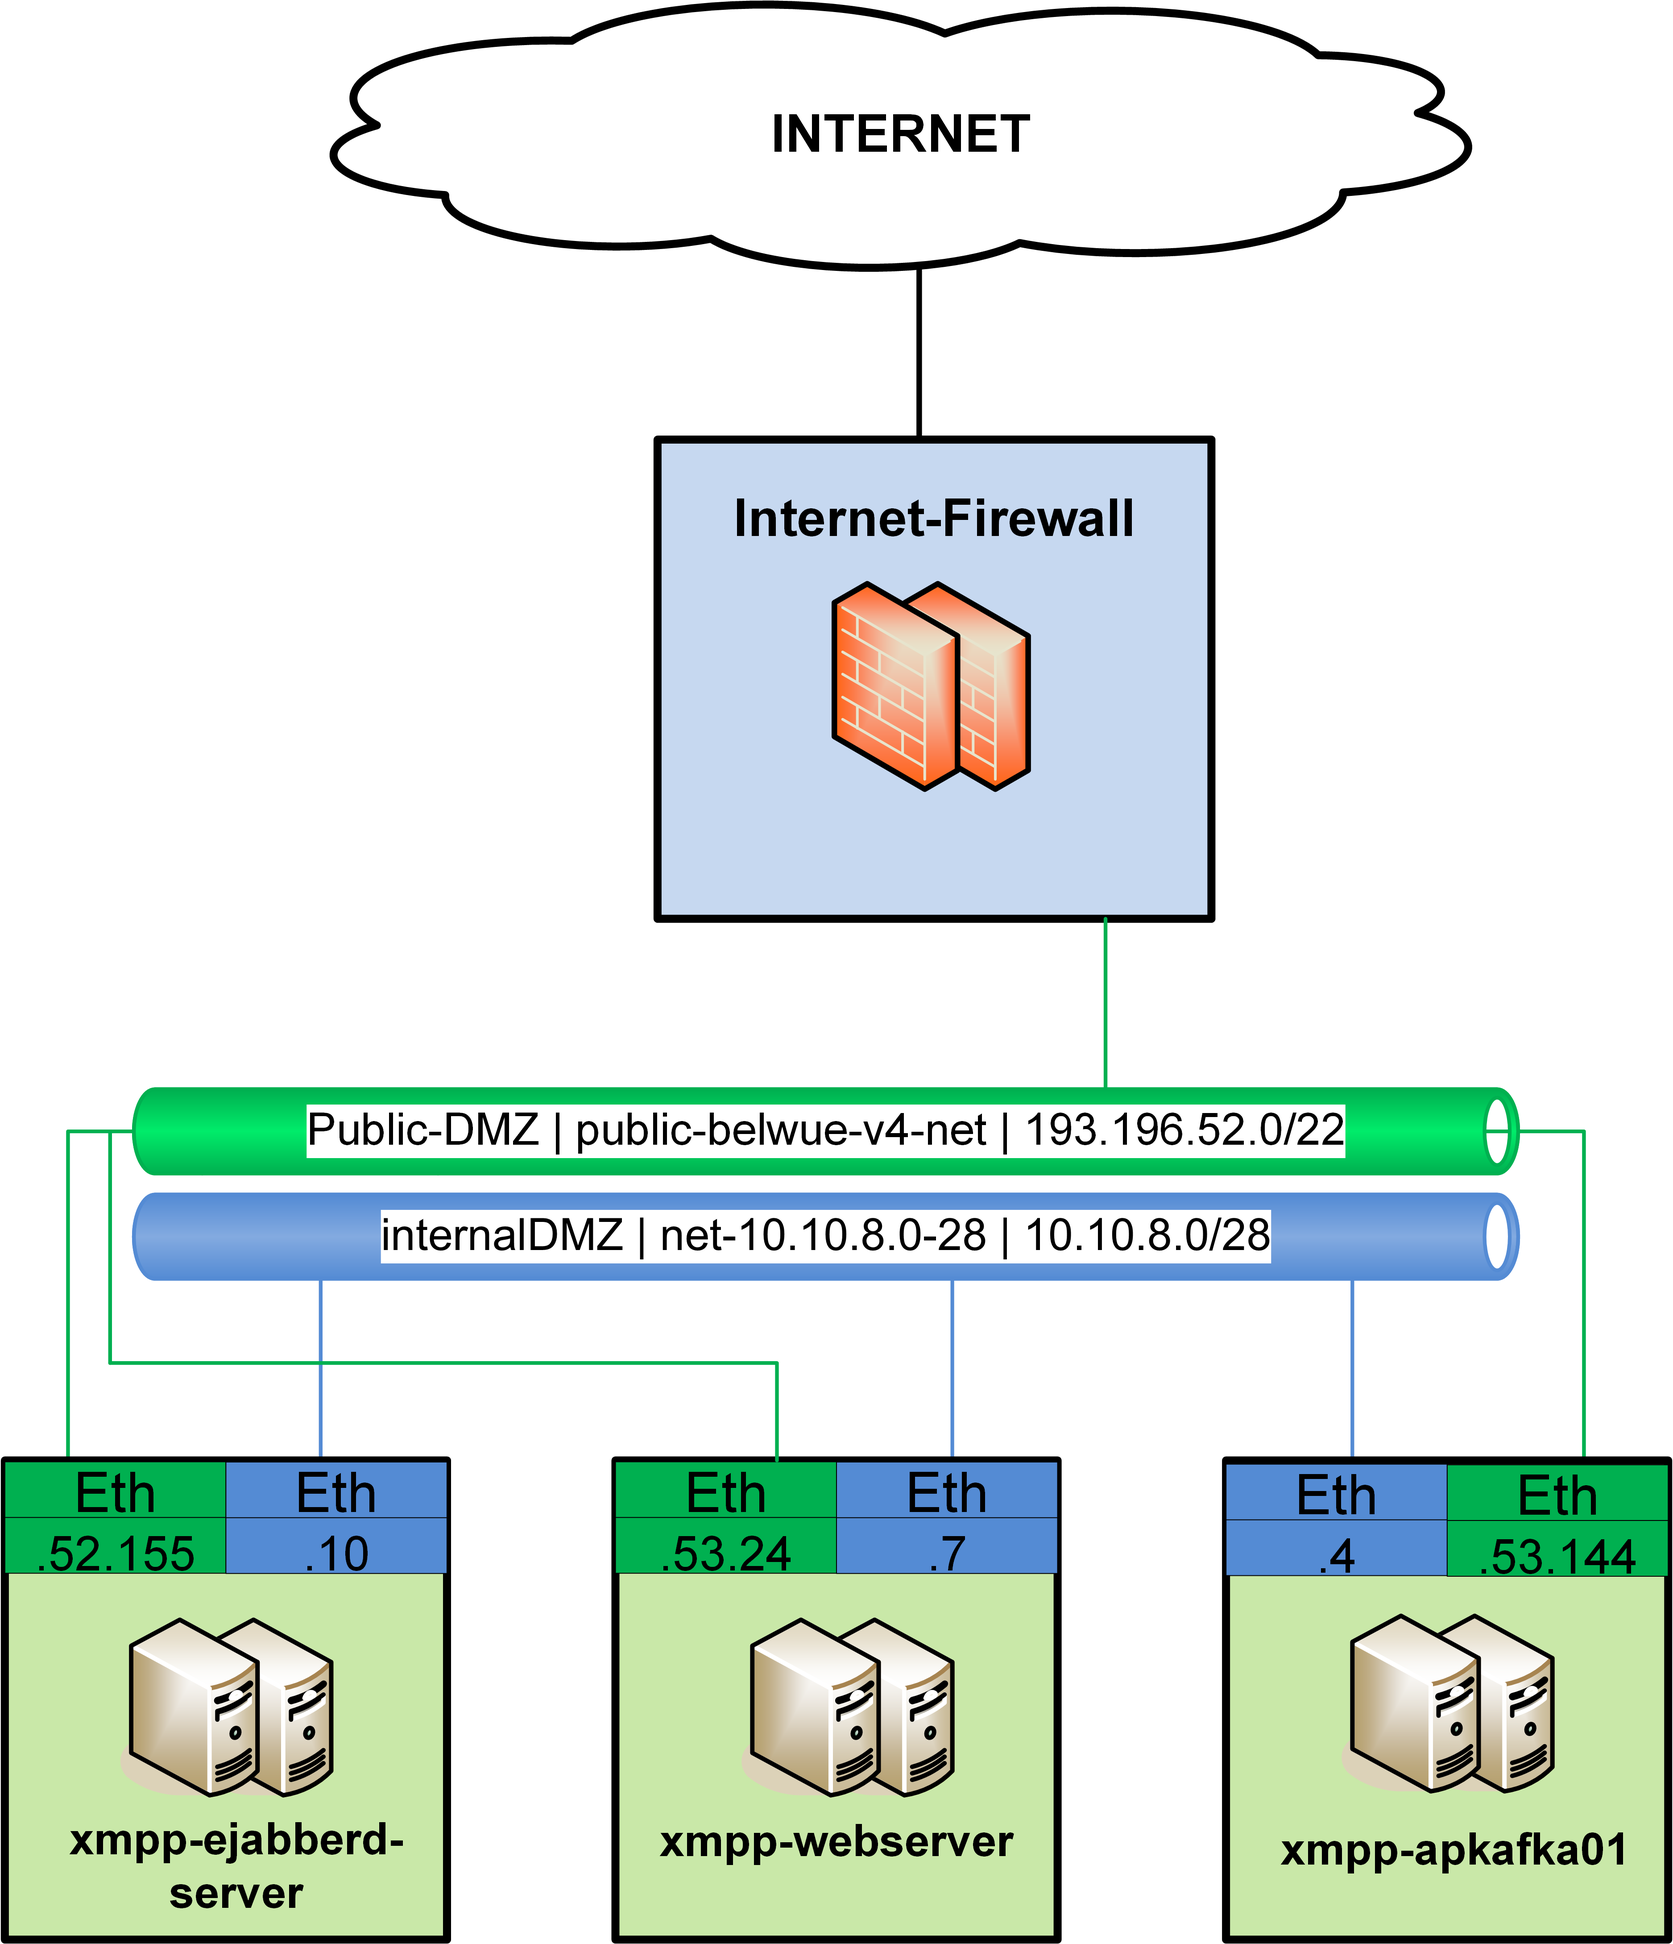
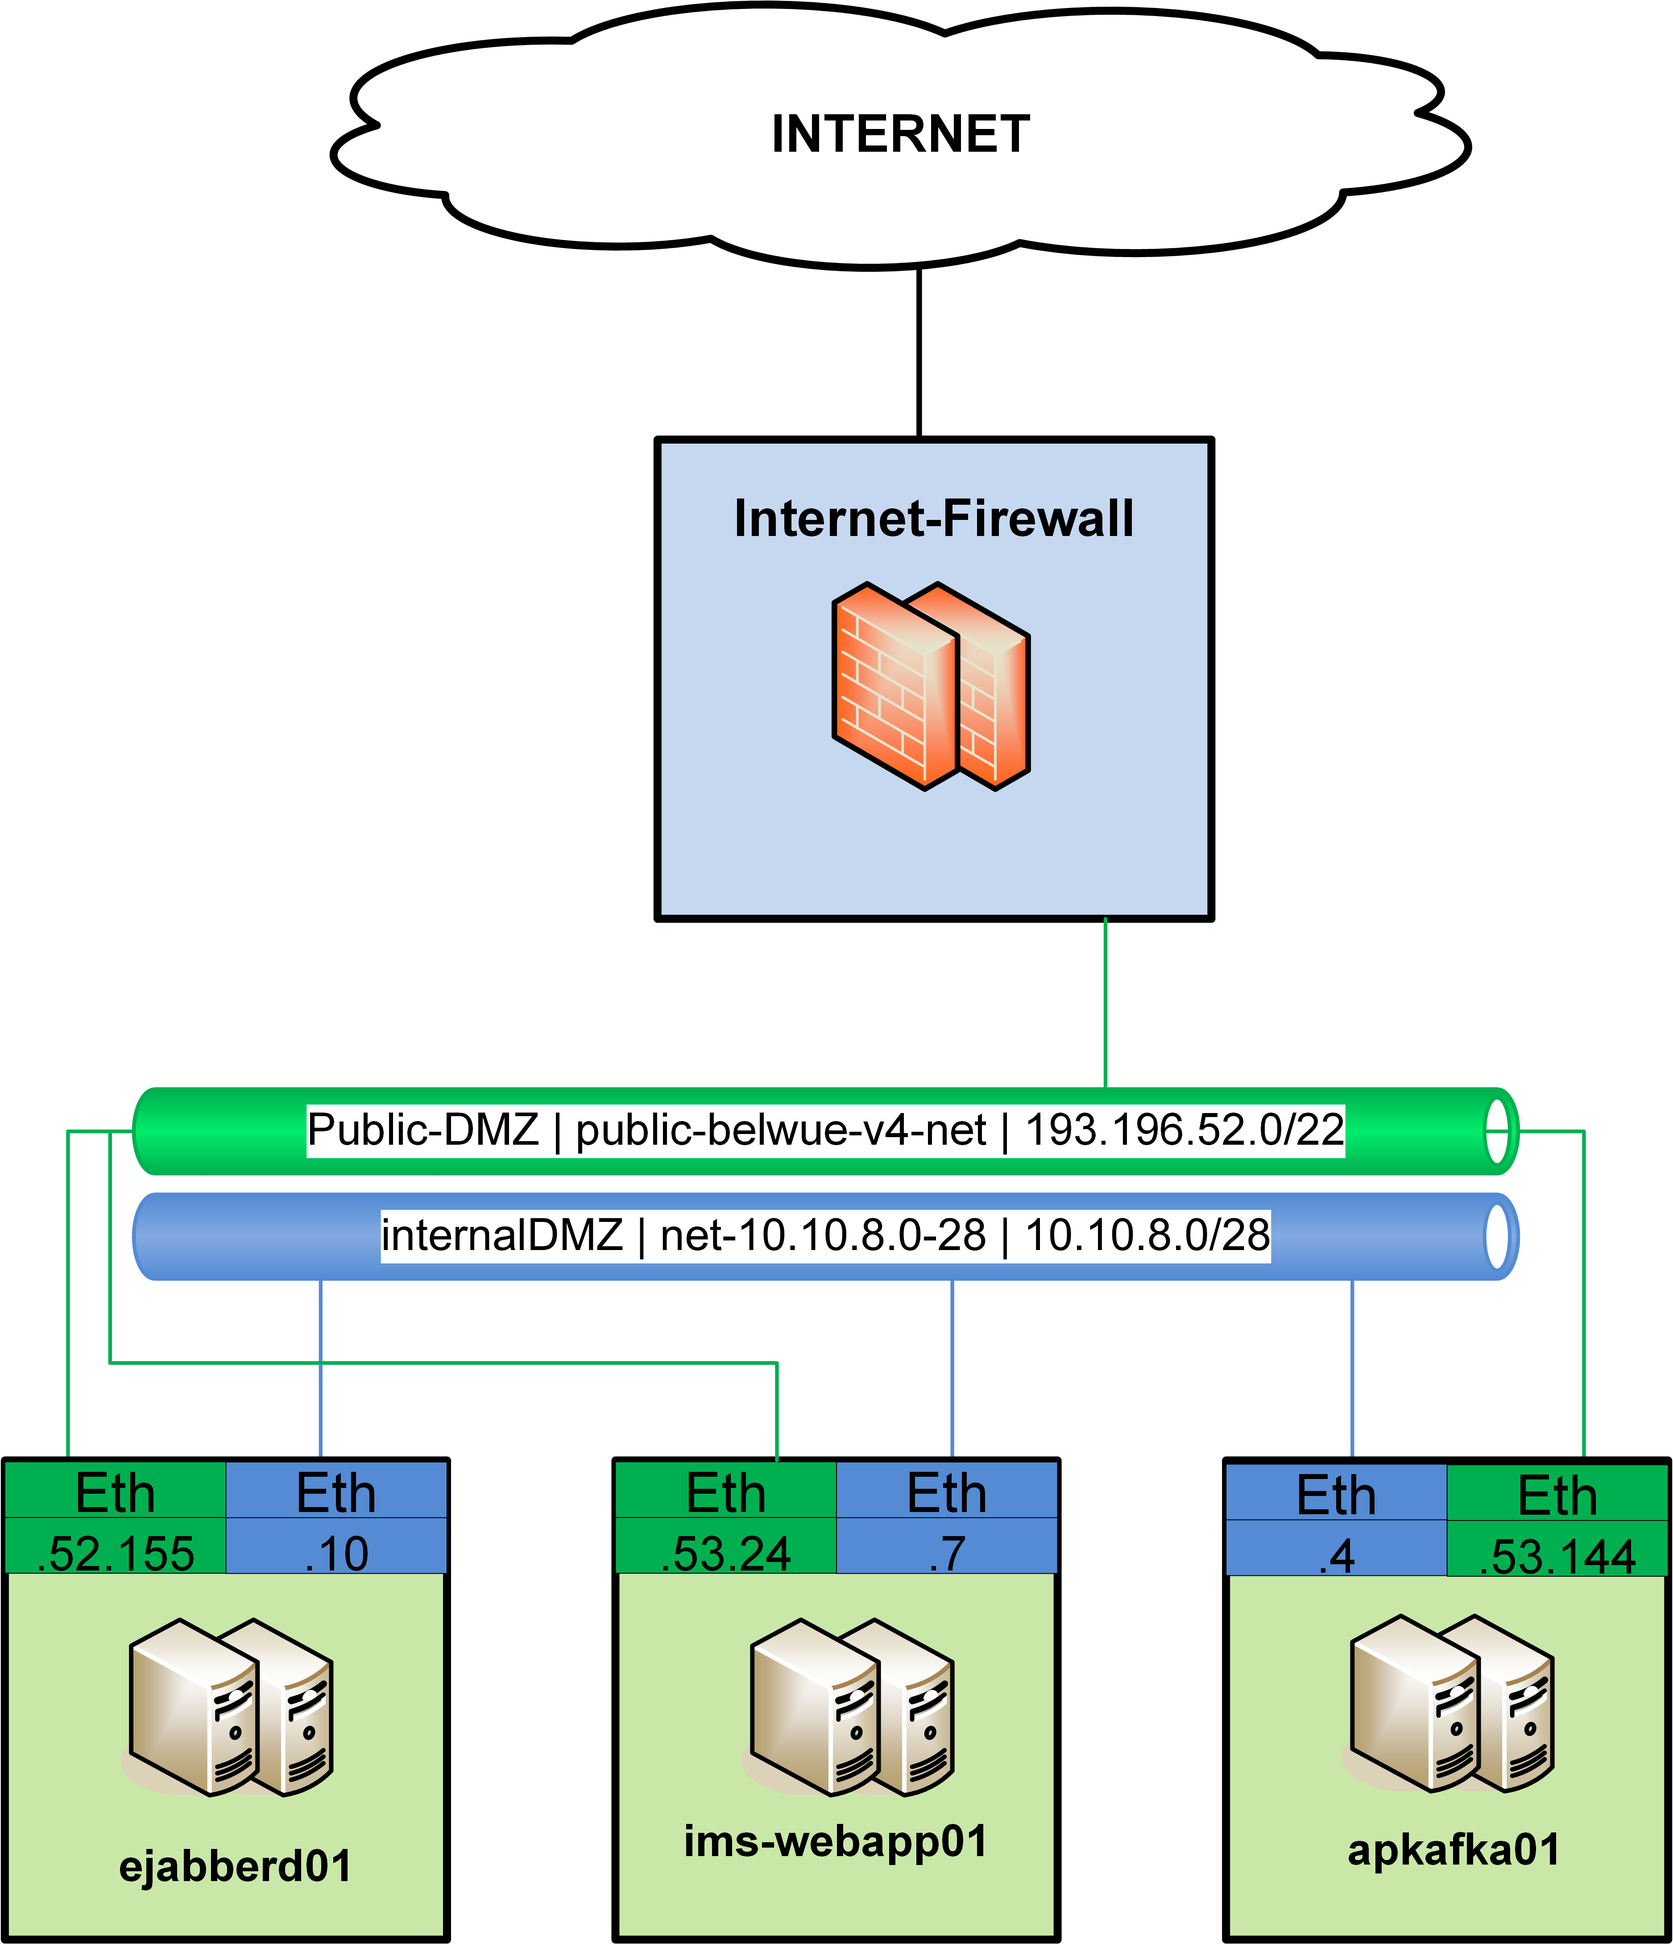
continuation of chapter Aufbau und Entwurf der Architektur und starts chapter Umsetzung der Entwicklung einer REST API

Changed region(s): [[0.0312, 0.9366, 0.2496, 0.9991], [0.78, 0.9366, 0.9672, 0.9679], [0.4056, 0.9366, 0.5928, 0.9679]]

diff --git a/LaTeX/Studienarbeit.tex b/LaTeX/Studienarbeit.tex
@@ -310,6 +310,10 @@ Ort, Datum & Unterschrift
 \acro{REST}{Representational State Transfer}
 \acro{API}{Application Programming Interface}
 \acro{SSH}{Secure Shell}
+\acro{HTML}{Hypertext Markup Language}
+\acro{PDF}{Portable Document Format}
+\acro{JSON}{JavaScript Object Notation}
+\acro{XML}{Extensible Markup Language}
 \end{acronym}
 
 %abbildungsverzeichnis
@@ -783,8 +787,20 @@ Eine wichtige Anforderung an Tests ist, dass diese schnell und effizient ablaufe
 \chapter{Umsetzung und Implementierung}
 \label{chap:Umsetzung}
 
+\section{Diskussion über die Art der Benutzeroberfläche}
+\label{sec:DiskussionGUI}
+
+- Warum Webanwendung und keine Desktopanwendung?\\
+- Warum Flask und kein anderes Framework? - Besonderheiten, Statistitken, Entscheidungsmatrix\\
+- Warum entscheiden wir uns für ein Microframework?\\
+- keine Erwähnung von Gesamtkonzept\\
+- Flask Einführung\\
+- Und wie kann ich es nutzen? Beispiele auch mit ORM\\
+
+\pagebreak
+
 \section{Aufbau und Entwurf der Architektur des Chatsystems}
-\label{chap:Architektur}
+\label{sec:Architektur}
 
 Nach den Anforderungen (\autoref{Anforderungen}) und Zielen der Arbeit (\autoref{sec:Ziele}) soll ein \ac{IMS} auf Basis eines \ac{XMPP}-Chatsystems entworfen und programmiert werden. Anschließend soll das gleiche Chatsystem auf Basis des Frameworks Apache Kafka mit Kafka Streams implementiert und mit dem \ac{XMPP}-Chatsystem verglichen werden. Hierfür muss ein verteiltes System entworfen werden, das die Anforderungen abdeckt.
 
@@ -819,11 +835,13 @@ Auf den Aspekt der Redundanz wird in dieser Arbeit nicht eingegangen. Das Ziel i
 
 Die Auflistung führt Ziele auf, die Tanenbaum \cite{andrew2008verteilte} in seinem Werk immer wieder betont. Diese sind in Bezug auf das zu entwerfende \ac{IMS} wie folgt zu interpretieren:
 
-Die Ressourcen sind die Chat-Funktionalitäten die ein Benutzer wahrnehmen kann. Das entwickelte System sollte diese Funktionalitäten dem Benutzer einfach zugänglich machen. Einfach zugänglich machen bedeutet, dass ein Benutzer nicht manuell sämtliche Dienste über viele Anmeldungen aufrufen muss, damit eine Nachricht an einem anderen Benutzer versendet wird. Vielmehr soll das \ac{IMS}, nachdem der Benutzer einen zentralen Auftrag zum Senden einer Nachricht veranlasst hat, alle benötigten Dienste selbst ansteuern und die Nachricht zuverlässig versenden. Ob und wie viele weiteren Dienste hierfür benötigt werden, soll das System vor dem Benutzer verbergen. Diesen Sachverhalt bezeichnet Tanenbaum in \cite{andrew2008verteilte} als Verteilungstransparenz. Das System muss also verbergen, dass es mit einer Datenbank oder mit ejabberd kommunizieren muss, um die Nachricht dem Empfänger zu zustellen. Neumann  definiert Skalierbarkeit sehr ausführlich in \cite{neumannDistributed1994}. Neumann ist der Auffassung, dass ein verteiltes System, das hinsichtlich seiner Ausdehnung skaliert wird, nicht an Leistung verlieren darf. Konkret für das \ac{IMS} bedeutet das, durch ein Hinzufügen oder Duplizieren von Diensten andere Teilsysteme nicht negativ beeinflusst werden dürfen. Neumann betont, dass es nicht sinnvoll ist einen Dienst nur zentral auf einem Server bereitzustellen. Er betont, dass Server einer zentralisierten Architektur zum Engpass werden können. Diese Ansicht ist zutreffend, wenn das \ac{IMS} als Produktivsystem entwickelt werden würde. Das ist aber in dieser Studienarbeit nicht der Fall und kann deshalb vernachlässigt werden.
+Die Ressourcen sind die Chat-Funktionalitäten die ein Benutzer wahrnehmen kann. Das entwickelte System sollte diese Funktionalitäten dem Benutzer einfach zugänglich machen. Einfach zugänglich machen bedeutet, dass ein Benutzer nicht manuell sämtliche Dienste über viele Anmeldungen aufrufen muss, damit eine Nachricht an einem anderen Benutzer versendet wird. Vielmehr soll das \ac{IMS}, nachdem der Benutzer einen zentralen Auftrag zum Senden einer Nachricht veranlasst hat, alle benötigten Dienste selbst ansteuern und die Nachricht zuverlässig versenden. Ob und wie viele weiteren Dienste hierfür benötigt werden, soll das System vor dem Benutzer verbergen. Diesen Sachverhalt bezeichnet Tanenbaum in \cite{andrew2008verteilte} als Verteilungstransparenz. Das System muss also verbergen, dass es mit einer Datenbank oder mit ejabberd kommunizieren muss, um die Nachricht dem Empfänger zu zustellen. Neumann  definiert Skalierbarkeit sehr ausführlich in \cite{neumannDistributed1994}. Neumann ist der Auffassung, dass ein verteiltes System, das hinsichtlich seiner Ausdehnung skaliert wird, nicht an Leistung verlieren darf. Konkret für das \ac{IMS} bedeutet das, das durch ein Hinzufügen oder Duplizieren von Diensten andere Teilsysteme nicht negativ beeinflusst werden dürfen. Neumann betont, dass es nicht sinnvoll ist, einen Dienst nur zentral auf einem Server bereitzustellen. Nach seiner Meinung können Server einer zentralisierten Architektur zum Engpass werden. Diese Ansicht ist zutreffend, wenn das \ac{IMS} als Produktivsystem entwickelt werden würde. Das ist aber in dieser Studienarbeit nicht der Fall und kann deshalb vernachlässigt werden.
 
-Beachtet man die oben aufgeführten Eigenschaften und Ziele der verteilten Systeme, ergibt sich für die Architektur folgender Aufbau (siehe Anhang \autoref{img:ArchitekturIMS}).
+Das Ergebnis der Diskussion aus \autoref{sec:DiskussionGUI} bestätigt, das sich für die Art der Anwendung eine Webanwendung besonders eignet. Das erfordert, das der Benutzer mit dem \ac{IMS} direkt über den Browser interagieren kann. Die Webanwendung setzt allerdings eine Anwendungslogik voraus, die die Aktionen des Benutzers koordiniert und kontrolliert. Um das Gesamtsystem flexibel zu halten, sodass neben einem Benutzer auch andere Webdienste mit dem \ac{IMS} interagieren können, wird eine \acs{REST} \acs{API} programmiert. \acs{REST} bezeichnet einen Architekturstil, den Roy Fielding in seiner Dissertation \cite{fieldingREST} aus dem Jahr 2000 beschreibt. \ac{REST} verspricht Wiederverwendbarkeit, Erweiterbarkeit, Skalierbarkeit und die einfache Integration in die vorhandene Netz-Struktur \cite{fieldingREST}. Ressourcen werden über \acs{URI}s und über einen eindeutigen Namen aufgerufen. Die Ressourcen können in unterschiedlicher Form auftreten, wie zum Beispiel: \acs{PDF}, \acs{XML}, \acs{JSON} als moderne Form oder \acs{HTML}. Die Tatsache, dass eine Nachricht eines Benutzers über einen Aufruf einer \acs{URI}, wie zum Beispiel \texttt{https://chatportal.de/send-message}, von einem Client beauftragt werden kann, bestätigt die Vorteile des Architekturstils. Kommen in ferner Zukunft weitere Möglichkeiten für den Versand einer Nachricht hinzu, muss nur eine neue \acs{API}-Route eingerichtet werden. Das System bleibt flexibel und erweiterbar. Aus diesen Gründen wird für die Anwendungslogik eine \acs{REST} \acs{API} mit dem Framework Python Flask entwickelt.
 
-Jeder Dienst wird auf einem Server verteilt mit Ausnahme der Datenbanken. Der ejabberd-Server ist in \autoref{img:ArchitekturIMS} als \texttt{xmpp-ejabberd-server} gekennzeichnet und der Apache Kafka Dienst als \texttt{xmpp-apkafka01}. Die Instanz \texttt{xmpp-webserver} realisiert die Anwendungslogik in Form einer \acs{REST} \acs{API}. Die Grundidee ist folgende: Über ein Web-Frontend werden dem Benutzer Chat-Funktionalitäten bereitgestellt, die er nach einer Anmeldung am System verwenden kann. Über das Web-Frontend kann der Benutzer auswählen, ob er über den Apache Kafka Dienst oder über ejabberd Chat-Dienste nutzen möchte. So können beide Plattformen getrennt voneinander getestet werden. Die Auswahl der Plattformen und die Koordination der Funktionen zu den speziellen Diensten übernimmt die \acs{REST} \acs{API}. Damit die \acs{REST} \acs{API} mit den beiden Plattformen kommunizieren kann, existiert das private Netzwerk \texttt{internalDMZ}, mit dem alle drei Instanzen verbunden sind (siehe \autoref{img:ArchitekturIMS}). Wählt ein Benutzer sich zum Beispiel über das Web-Frontend am \acs{API}-Endpunkt für die Benutzung von Apache Kafka an, so werden seine Nachrichten über die \acs{REST} \acs{API} zur Apache Kafka Plattform transportiert. Dieser koordiniert dann die Nachrichten. Meldet sich der Benutzer am Endpunkt für die Nutzung des ejabberd-Servers an, so werden die Nachrichten über die \acs{REST} \acs{API} via \ac{XMPP} an den ejabberd-Server gesendet und über den gleichen Weg zurück zum Client transportiert. Diese Architektur ist unempfindlich gegenüber Erweiterungen. Würden in der Zukunft weitere Plattformen hinzukommen, müssen nur neue \acs{API}-Endpunkte hinzugefügt werden und die neuen Funktionen im Code umgesetzt werden. Bestehender Code und Endpunkte müssen nicht verändert werden. Zudem kann eine Komponente einfach ausgetauscht werden, falls diese beschädigt wird. Solange die Konfiguration die Gleiche bleibt, muss die Anwendungslogik nicht angepasst werden. Auffällig ist, dass alle drei Instanzen eine öffentliche IP-Adresse im Internet haben. Der Internetzugang ist über eine Firewall gesichert und dient der Erreichbarkeit der Geräte für Debugging oder administrative Zwecke. Beispielsweise um über das \ac{SSH} Protokoll Software-Installationen durchzuführen oder Konfigurationen zu verwalten. Die \acs{REST} \acs{API} ist zusätzlich für die Clients über das Internet für \ac{IMS}-Dienste erreichbar. Die Apache Kafka und die ejabberd-Instanz werden so konfiguriert und implementiert, dass sie auch ohne der Anwendungslogik vollständig über das Internet benutzbar sind.
+Beachtet man die oben aufgeführten Überlegungen, ergibt sich für die Architektur folgender Aufbau (siehe Anhang \autoref{img:ArchitekturIMS}).
+%TODO Grafiken einbauen
+Jeder Dienst wird auf einem Server verteilt mit Ausnahme der Datenbanken. Der ejabberd-Server ist in \autoref{img:ArchitekturIMS} als \texttt{ejabberd01} gekennzeichnet und der Apache Kafka Dienst als \texttt{apkafka01}. Die Instanz \texttt{ims-webapp01} realisiert die Anwendungslogik in Form einer \acs{REST} \acs{API}. Die Grundidee ist folgende: Über ein Web-Frontend werden dem Benutzer Chat-Funktionalitäten bereitgestellt, die er nach einer Anmeldung am System verwenden kann. Über das Web-Frontend kann der Benutzer auswählen, ob er über den Apache Kafka Dienst oder über ejabberd Chat-Dienste nutzen möchte. So können beide Plattformen getrennt voneinander getestet werden. Die Auswahl der Plattformen und die Koordination der Funktionen zu den speziellen Diensten übernimmt die \acs{REST} \acs{API}. Damit die \acs{REST} \acs{API} mit den beiden Plattformen kommunizieren kann, existiert das private Netzwerk \texttt{internalDMZ}, mit dem alle drei Instanzen verbunden sind (siehe \autoref{img:ArchitekturIMS}). Wählt ein Benutzer sich zum Beispiel über das Web-Frontend am \acs{API}-Endpunkt für die Benutzung von Apache Kafka an, so werden seine Nachrichten über die \acs{REST} \acs{API} zur Apache Kafka Plattform transportiert. Kafka koordiniert dann die Nachrichten. Meldet sich der Benutzer am Endpunkt für die Nutzung des ejabberd-Servers an, so werden die Nachrichten über die \acs{REST} \acs{API} via \ac{XMPP} an den ejabberd-Server gesendet und über den gleichen Weg zurück zum Client transportiert. Diese Architektur ist unempfindlich gegenüber Erweiterungen. Würden in der Zukunft weitere Plattformen hinzukommen, müssen nur neue \acs{API}-Endpunkte hinzugefügt werden und die neuen Funktionen im Code umgesetzt werden. Bestehender Code und Endpunkte müssen nicht verändert werden. Zudem kann eine Komponente einfach ausgetauscht werden, falls diese beschädigt wird. Solange die Konfiguration die Gleiche bleibt, muss die Anwendungslogik nicht angepasst werden. Auffällig ist, dass alle drei Instanzen eine öffentliche IP-Adresse im Internet haben. Der Internetzugang ist über eine Firewall gesichert und dient der Erreichbarkeit der Geräte für Debugging oder administrative Zwecke. Beispielsweise um über das \ac{SSH} Protokoll Software-Installationen durchzuführen oder Konfigurationen zu verwalten. Die \acs{REST} \acs{API} ist zusätzlich für die Clients über das Internet für \ac{IMS}-Dienste erreichbar. Die Apache Kafka und die ejabberd-Instanz werden so konfiguriert und implementiert, dass sie auch ohne der Anwendungslogik vollständig über das Internet benutzbar sind.
 
 Nachdem die Architektur nach den Aspekten eines verteilten Systems entworfen ist, wird in den nächsten Kapiteln die Umsetzung der Architektur beschrieben.
 
@@ -1395,6 +1413,26 @@ Nun ist ejabberd für den Gebrauch in der Projektarbeit konfiguriert. Der Server
 
 \newpage
 
+\section{Umsetzung der Entwicklung einer \acs{REST} \acs{API}}
+\label{subsec:Backend}
+
+Ausgangspunkt dieses Abschnitts ist das Ergebnis der in \autoref{sec:Architektur} definierten Architektur. Dieses Kapitel befasst sich mit der Entwicklung der \acs{REST} \acs{API}. Es zeigt wichtige Aspekte und Ideen der Umsetzung mittels des Microframeworks Python Flask auf. Zu Beginn werden Anforderungen an die \acs{REST} \acs{API} und anschließend die genaue Umsetzung und der Programm-Code erläutert.
+
+\subsubsection*{Anforderungen an die \acs{REST} \acs{API}:}
+
+\begin{itemize}
+\item Datenbankzugriffe
+\item Authentifizierung der Benutzer
+\item Schützen der Ressourcen vor nicht autorisiertem Zugriff
+\item Bereitstellen von Chat-Funktionen über \ac{XMPP} und über Kafka Streams
+\item Koordinierung des Nachrichtentransports von Clients zu benötigten Diensten des \ac{IMS}
+\item Implementierung der Chat-Funktionen, die in der Weboberfläche vom Benutzer aufgerufen werden können.
+\item Auslieferung von \ac{HTML}-, \ac{CSS}- und JavaScript-Dokumenten an den Browser des Clients
+\item Fehlerbehandlung zum Beispiel bei invaliden Übergabeparametern
+\end{itemize}
+
+\pagebreak
+
 \section{Entwicklung des Chat-Clients}
 \label{sec:ClientEntwicklung}
 
@@ -1525,10 +1563,6 @@ Mit der fertigen Struktur von gochat.html wurden alle Webseiten, die der Webserv
 
 \subsubsection*{Integration dynamischer Elemente in die Webseiten}
 \label{subsubsec:DynamischeElementeWebseiten}
-
-
-\subsection{Implementierung des Backends}
-\label{subsec:Backend}
 
 \newpage
 
